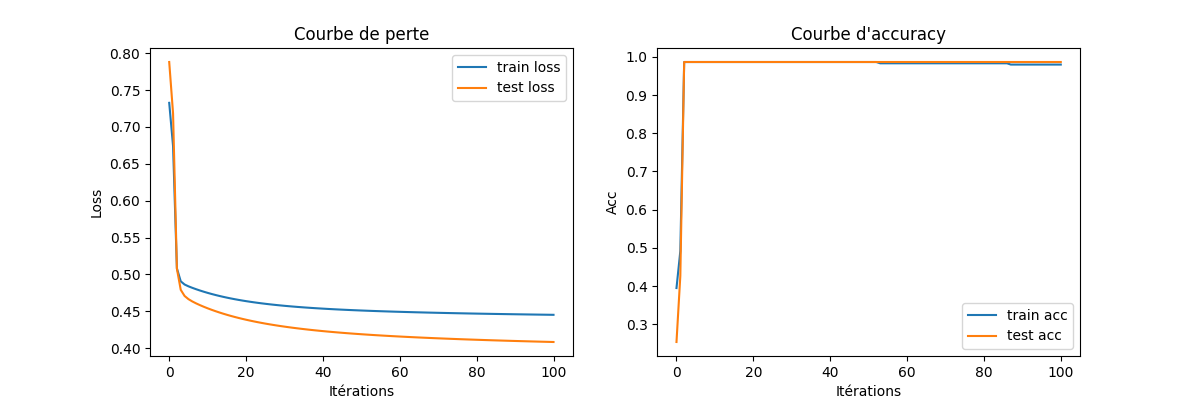
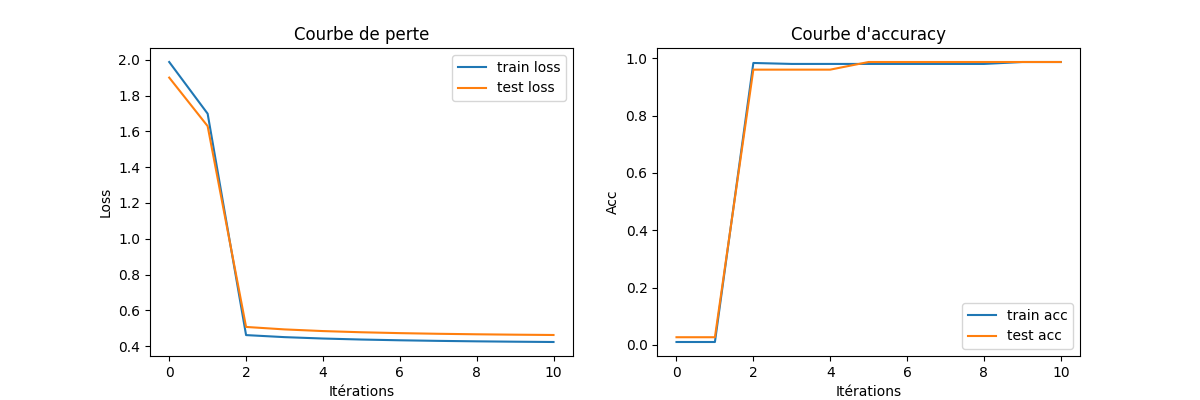
Mise au propre

diff --git a/Training/first_proto.py b/Training/first_proto.py
@@ -106,7 +106,7 @@ def main_for_sleep_dat(bool_c, bool_t, path_n, path_c):
     
     def split_data(df):
 
-        trainset, testset = train_test_split(df, test_size=0.2, random_state=12)
+        trainset, testset = train_test_split(df, test_size=0.2, random_state=42)
         return trainset, testset
     
     def normalisation(df):
@@ -142,83 +142,88 @@ def main_for_sleep_dat(bool_c, bool_t, path_n, path_c):
         print("Initial Test Accuracy:", accuracy_score(y_test >= 0.5, initial_pred_test))
 
         if bool_t:
-            sleep.train(X_train, y_train, X_test, y_test, 1e-2, 10000)
+            sleep.train(X_train, y_train, X_test, y_test, 1e-1, 1000)
             sleep.save(path_n)
         return sleep
 
+    def analyse_pre_process(df):
+        print()
+        print(df.head())
+        print()
+        print(df.info())
+        print()
+        print(df.describe())
+        print()
+        print(df.isna().sum()/df.shape[0])
+        print()
+
+    def analyse_post_process(X_train, y_train, X_test, y_test):
+        print("X_train shape:", X_train.shape)
+        print("y_train shape:", y_train.shape)
+        print("X_test shape:", X_test.shape)
+        print("y_test shape:", y_test.shape)
+
+        print("\nX_train data types:\n", pd.DataFrame(X_train).dtypes)
+        print("\nFirst 5 rows of X_train:\n", pd.DataFrame(X_train).head())
+        print("\ny_train data types:\n", pd.DataFrame(y_train).dtypes)
+        print("\nFirst 5 rows of y_train:\n", pd.DataFrame(y_train).head())
+
+    def affichage_perf(X_train, y_train, X_test, y_test, sleep):
+        y_pred_train = sleep.predict(X_train)
+        y_pred_test = sleep.predict(X_test)
+
+
+        print("Train Accuracy:", accuracy_score(y_train >= 0.5, y_pred_train))
+        print("Test Accuracy:", accuracy_score(y_test >= 0.5, y_pred_test))
+
+        # Additional metrics
+        print("Train F1 Score:", f1_score(y_train >= 0.5, y_pred_train, average='weighted', zero_division= np.nan))
+        print("Test F1 Score:", f1_score(y_test >= 0.5, y_pred_test, average='weighted', zero_division= np.nan))
+        print("Train Precision:", precision_score(y_train >= 0.5, y_pred_train, average='weighted', zero_division= np.nan))
+        print("Test Precision:", precision_score(y_test >= 0.5, y_pred_test, average='weighted', zero_division= np.nan))
+        print("Train Recall:", recall_score(y_train >= 0.5, y_pred_train, average='weighted', zero_division= np.nan))
+        print("Test Recall:", recall_score(y_test >= 0.5, y_pred_test, average='weighted', zero_division= np.nan))
+
+    def courbe_perf(sleep):
+        plt.figure(figsize=(12, 4))
+
+        plt.subplot(1, 2, 1)
+        plt.plot(sleep.L, label="train loss")
+        plt.plot(sleep.L_t, label="test loss")
+        plt.legend()
+        plt.title("Courbe de perte")
+        plt.xlabel("Itérations")
+        plt.ylabel("Loss")
+
+        plt.subplot(1, 2, 2)
+        plt.plot(sleep.acc, label="train acc")
+        plt.plot(sleep.acc_t, label="test acc")
+        plt.legend()
+        plt.title("Courbe d'accuracy")
+        plt.xlabel("Itérations")
+        plt.ylabel("Acc")
+
+        plt.savefig(path_c)
+        print("Courbes sauvegardée dans ", path_c)
 
     data = load()
     df = data.copy()
 
-    '''
-    #visualisation des données
-
-    print()
-    print(df.head())
-    print()
-    print(df.info())
-    print()
-    print(df.describe())
-    print()
-    print(df.isna().sum()/df.shape[0])
-    print()
-    '''
-    
+    # analyse_pre_process(df)
+        
     trainset, testset = split_data(df)
     X_train, y_train = preprocecing(trainset)
     X_test, y_test = preprocecing(testset)
 
-    '''
-    # test pour voir si les données sont bien prétraitées
+    assert not np.any(np.isin(X_train.index, X_test.index))
 
-    print("X_train shape:", X_train.shape)
-    print("y_train shape:", y_train.shape)
-    print("X_test shape:", X_test.shape)
-    print("y_test shape:", y_test.shape)
-
-    print("\nX_train data types:\n", pd.DataFrame(X_train).dtypes)
-    print("\nFirst 5 rows of X_train:\n", pd.DataFrame(X_train).head())
-    print("\ny_train data types:\n", pd.DataFrame(y_train).dtypes)
-    print("\nFirst 5 rows of y_train:\n", pd.DataFrame(y_train).head())
-    '''
+    # analyse_post_process(X_train, y_train, X_test, y_test)
     
     sleep = train_model(X_train, y_train, X_test, y_test)
 
-    y_pred_train = sleep.predict(X_train)
-    y_pred_test = sleep.predict(X_test)
+    affichage_perf(X_train, y_train, X_test, y_test, sleep)
 
-
-    print("Train Accuracy:", accuracy_score(y_train >= 0.5, y_pred_train))
-    print("Test Accuracy:", accuracy_score(y_test >= 0.5, y_pred_test))
-
-    # Additional metrics
-    print("Train F1 Score:", f1_score(y_train >= 0.5, y_pred_train, average='weighted', zero_division= np.nan))
-    print("Test F1 Score:", f1_score(y_test >= 0.5, y_pred_test, average='weighted', zero_division= np.nan))
-    print("Train Precision:", precision_score(y_train >= 0.5, y_pred_train, average='weighted', zero_division= np.nan))
-    print("Test Precision:", precision_score(y_test >= 0.5, y_pred_test, average='weighted', zero_division= np.nan))
-    print("Train Recall:", recall_score(y_train >= 0.5, y_pred_train, average='weighted', zero_division= np.nan))
-    print("Test Recall:", recall_score(y_test >= 0.5, y_pred_test, average='weighted', zero_division= np.nan))
-
-    plt.figure(figsize=(12, 4))
-
-    plt.subplot(1, 2, 1)
-    plt.plot(sleep.L, label="train loss")
-    plt.plot(sleep.L_t, label="test loss")
-    plt.legend()
-    plt.title("Courbe de perte")
-    plt.xlabel("Itérations")
-    plt.ylabel("Loss")
-
-    plt.subplot(1, 2, 2)
-    plt.plot(sleep.acc, label="train acc")
-    plt.plot(sleep.acc_t, label="test acc")
-    plt.legend()
-    plt.title("Courbe d'accuracy")
-    plt.xlabel("Itérations")
-    plt.ylabel("Acc")
-
-    plt.savefig(path_c)
-    print("Courbes sauvegardée dans ", path_c)
+    courbe_perf(sleep)
 
 
 if __name__ == "__main__":
